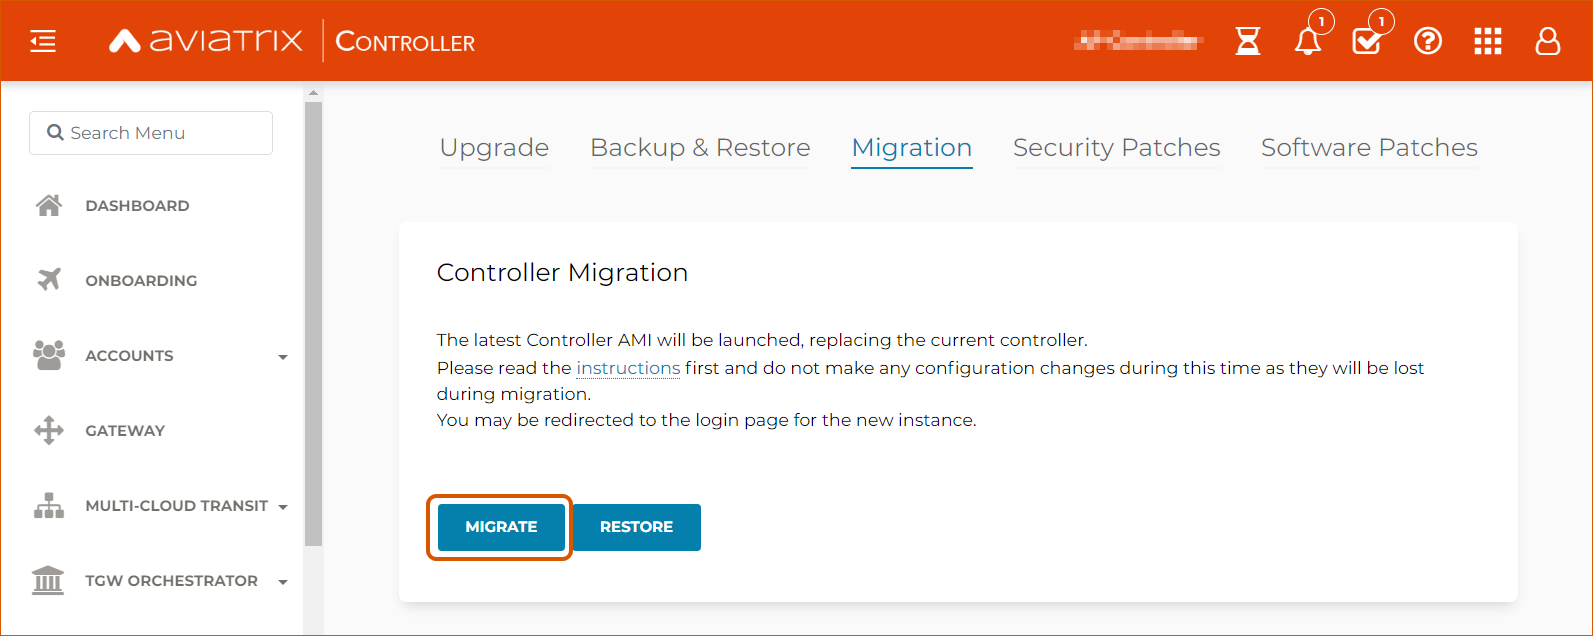
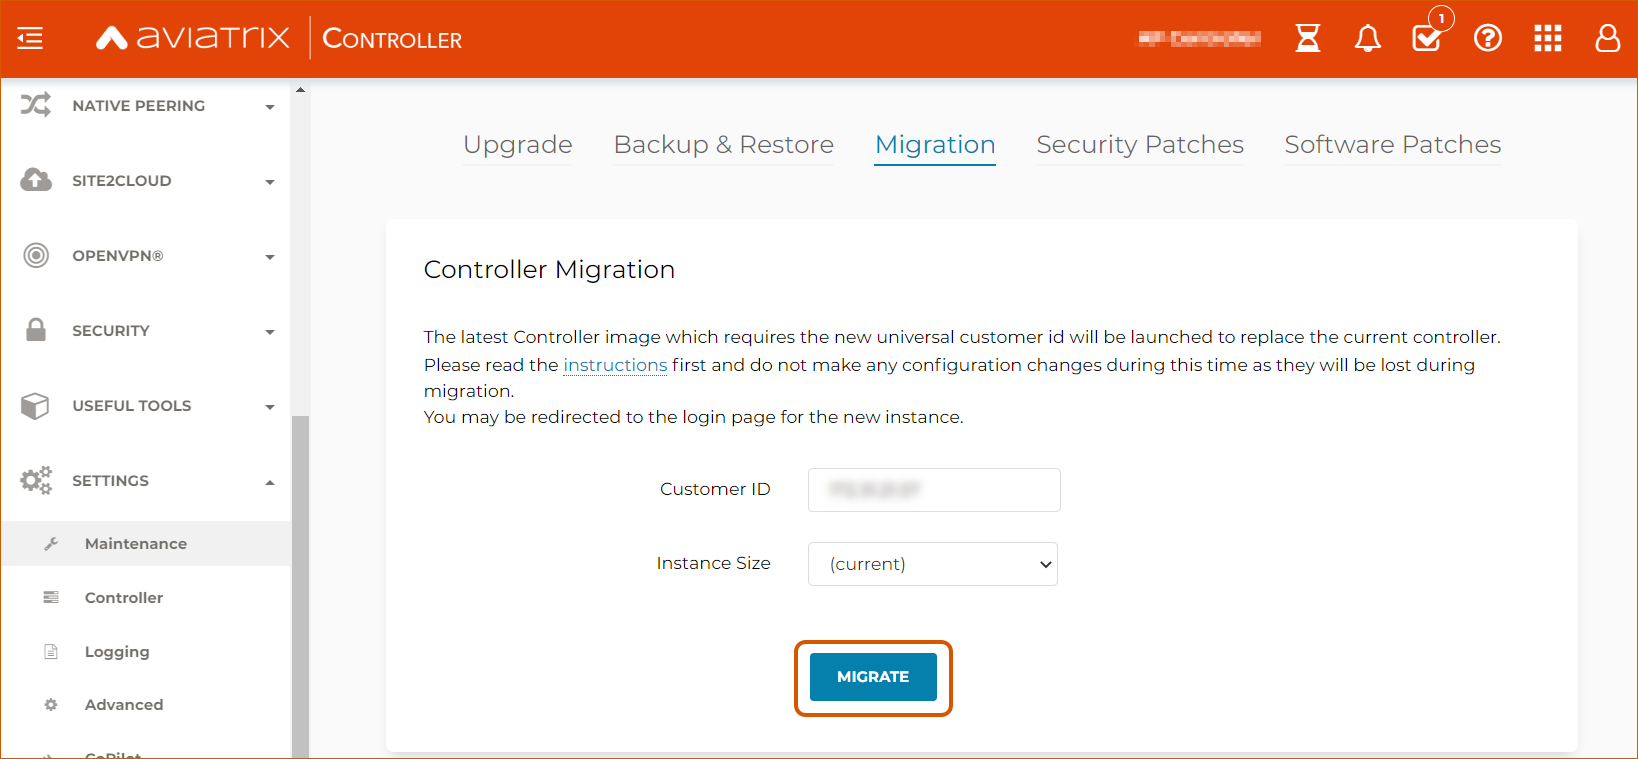
Updating screenshot and instructions for Controller Migration
Updated the screenshot in this document to include the Customer ID and Instance Size fields. Also edited the instructions. Note that this fix is only necessary for the AWS Controller Migration document because, for now, clicking this button only works for migrating AWS Controllers.

diff --git a/HowTos/Migration_From_Marketplace.rst b/HowTos/Migration_From_Marketplace.rst
@@ -65,7 +65,11 @@ To migrate to the most current AMI directly from your Controller, use the follow
 
   In case of a Disaster Recovery (DR) scenario in which an entire AWS region goes down, considering backing up your Controller to at least two separate regions.
 
-3. Go to Settings > Maintenance > Migration. Click **Migrate** to migrate your Controller to the latest image.
+3. Go to Settings > Maintenance > Migration. 
+
+* Enter your Customer ID in the field provided. 
+* If you want to resize your Controller in this migration, click on the Instance Size dropdown menu and select a new size. To use the same size, leave this field at the default, current. 
+* Click **Migrate** to migrate your Controller to the latest image.
 
   |controller_migration|
 
